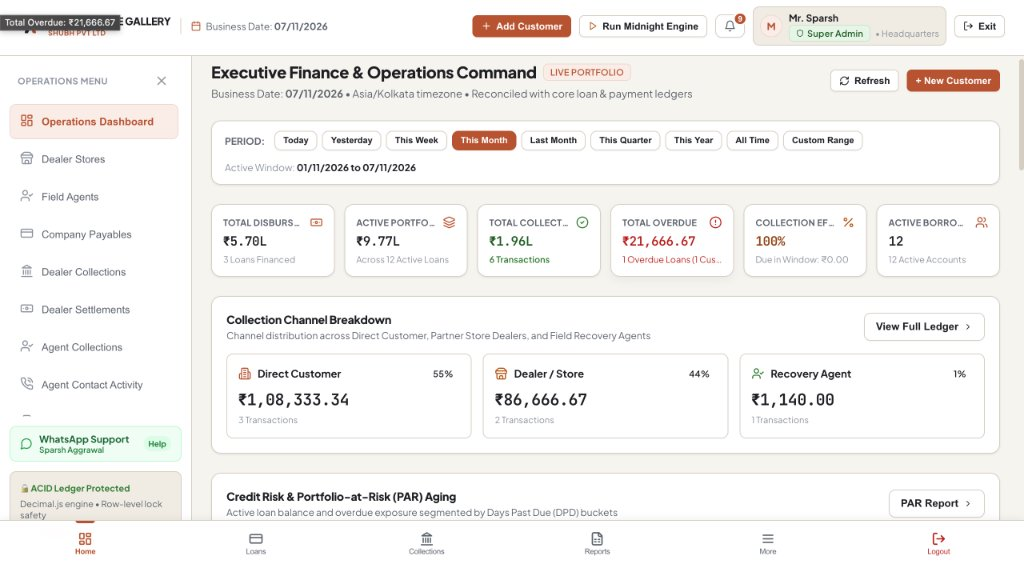
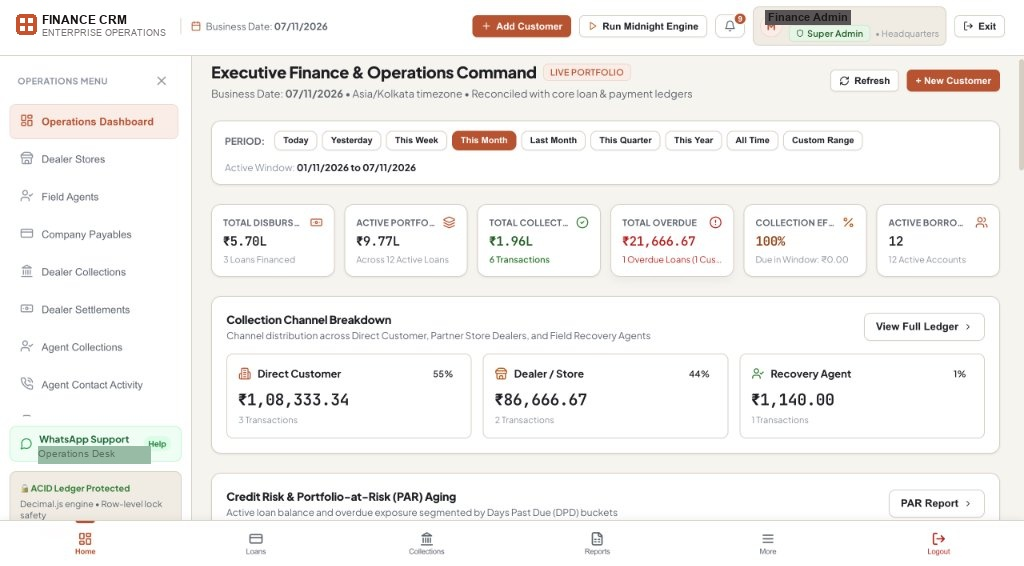
fix: update Finance CRM and Aurified project details, locations, and confidential framing

Changed region(s): [[0.0, 0.0, 0.1875, 0.0601], [0.0312, 0.7809, 0.1562, 0.841], [0.75, 0.0, 0.8438, 0.0601]]

diff --git a/src/data/projects.ts b/src/data/projects.ts
@@ -23,6 +23,7 @@ export interface Project {
   featuresDelivered: {
     title: string;
     description: string;
+    items?: string[];
   }[];
   techStack: {
     category: string;
@@ -128,11 +129,11 @@ export const MAIN_PROJECTS: Project[] = [
     slug: "aurified",
     name: "AURIFIED SHOPIFY STORE",
     client: "Parth",
-    category: "Shopify / E-commerce",
+    category: "E-commerce Development",
     industry: "D2C Lifestyle & Wellness Products",
     year: "2024",
-    location: "Location unverified",
-    locationVerified: false,
+    location: "Varanasi, Uttar Pradesh, India",
+    locationVerified: true,
     statusBadge: "In Progress",
     statusType: "in_progress",
     liveUrl: "https://aurified.in/",
@@ -141,7 +142,7 @@ export const MAIN_PROJECTS: Project[] = [
     tagline:
       "A structured and responsive Shopify storefront built around modern online shopping journeys.",
     description:
-      "A Shopify storefront built to deliver a structured and responsive online shopping experience across lifestyle, accessories, and wellness goods.",
+      "A Shopify-based e-commerce storefront developed for Aurified, a brand based in Varanasi, Uttar Pradesh. The project focuses on creating a polished online shopping experience with product discovery, responsive storefront design, product presentation, and a streamlined shopping journey.",
     features: [
       "Shopify storefront development & theme customization",
       "E-commerce product catalogue architecture",
@@ -156,9 +157,9 @@ export const MAIN_PROJECTS: Project[] = [
       "Responsive shopping experience across mobile viewports",
       "Brand-focused design with frictionless browsing",
     ],
-    tags: ["Shopify", "E-commerce", "Liquid", "Conversion Optimization", "Mobile Commerce"],
+    tags: ["Shopify", "E-commerce Development", "Liquid", "Conversion Optimization", "Mobile Commerce"],
     overview:
-      "Aurified is a direct-to-consumer lifestyle brand offering home accessories, fitness gear, and daily ergonomic essentials. DataCraft is developing and refining a clean Shopify storefront that structures diverse product categories into an intuitive shopping flow with frictionless mobile checkout.",
+      "A Shopify-based e-commerce storefront developed for Aurified, a brand based in Varanasi, Uttar Pradesh. The project focuses on creating a polished online shopping experience with product discovery, responsive storefront design, product presentation, and a streamlined shopping journey.",
     businessRequirements: [
       "Structure multi-category product lines (Accessories, Gym Wear, Home Essentials) for effortless discovery.",
       "Ensure fast page load speeds on mobile networks where the majority of D2C shoppers browse.",
@@ -212,47 +213,43 @@ export const MAIN_PROJECTS: Project[] = [
   {
     slug: "finance-crm",
     name: "FINANCE CRM PLATFORM",
-    client: "Sparsh Agrawal",
-    category: "Custom Software / Finance Management",
-    industry: "Enterprise FinTech & EMI Management",
+    client: "Confidential Finance Client",
+    category: "Custom Software Development",
+    industry: "Finance Management & Loan Operations CRM",
     year: "2024",
-    location: "Location unverified",
-    locationVerified: false,
+    location: "Auraiya, Uttar Pradesh, India",
+    locationVerified: true,
     statusBadge: "Prototyped / Paused",
     statusType: "paused",
     liveUrl: "https://crm-two-orcin-18.vercel.app/#dashboard",
     ctaLabel: "Explore Project",
     isMainPortfolio: true,
     tagline:
-      "A custom finance and loan management platform designed to automate EMI operations and field recovery.",
+      "A custom-built finance management and loan operations platform designed to automate EMI operations and field recovery.",
     description:
-      "A custom finance and loan management platform designed to manage customer onboarding, loan operations, payments, collections and recovery activities.",
+      "A custom-built finance management and loan operations platform developed for a finance company based in Auraiya, Uttar Pradesh. The platform centralizes customer onboarding, loan management, EMI calculations, payment allocation, field recovery operations, reporting, and administrative workflows into one integrated system.",
     features: [
-      "Executive finance & operations command dashboard",
       "Customer onboarding & digital KYC verification",
-      "Loan account management with automated interest calculation",
-      "EMI calculation & automated payment allocation",
-      "Dealer store management & commission settlements",
-      "Field agent management & collection tracking",
-      "Agent contact activity logging & recovery follow-ups",
-      "Financial reporting & Portfolio-at-Risk (PAR) aging analysis",
-      "Role-based access control (Super Admin, Manager, Agent)",
+      "Loan application, lifecycle & collateral management",
+      "Automated EMI calculation & waterfall payment allocation",
+      "Payment collection, allocation & reversal tracking",
+      "Field recovery queues, agent tracking & contact logs",
+      "Role-based access control & executive operational monitoring",
     ],
     highlights: [
       "Executive finance dashboard with real-time portfolio metrics",
-      "Customer onboarding & loan lifecycle management",
-      "Automated EMI calculation & payment allocation ledgers",
-      "Field agent management & mobile collection tracking",
-      "Financial reporting with Credit Risk & PAR aging buckets",
-      "Role-based access control safeguarding sensitive ledger data",
+      "ACID-compliant collection ledger with automated waterfall allocation",
+      "Field recovery queues, agent tracking & contact activity logs",
+      "Portfolio-at-Risk (PAR) aging and credit exposure reporting",
+      "Role-based access control safeguarding sensitive ledger operations",
     ],
-    tags: ["Custom Software", "Finance CRM", "TypeScript", "React", "Capacitor", "Role-Based Access"],
+    tags: ["Custom Software Development", "Finance Management CRM", "TypeScript", "React", "Capacitor", "Role-Based Access"],
     overview:
-      "Alpha Mobile Gallery / Shubh Pvt Ltd required a bespoke operational platform to handle retail device loans, customer KYC, monthly EMI collections, and field recovery assignments. DataCraft engineered an extensive single-page web and mobile-ready application. The platform is currently paused and is presented here as an engineering prototype demonstrating our capabilities in complex financial workflows, schema validation, and operational dashboards.",
+      "A custom-built finance management and loan operations platform developed for a finance company based in Auraiya, Uttar Pradesh. The platform centralizes customer onboarding, loan management, EMI calculations, payment allocation, field recovery operations, reporting, and administrative workflows into one integrated system. Built as an enterprise operational system, it replaces physical ledgers and disparate spreadsheets with a central, ACID-compliant collection ledger.",
     businessRequirements: [
       "Replace physical ledgers and disparate spreadsheets with a central, ACID-compliant collection ledger.",
-      "Calculate amortization schedules, overdue penalty fees, and payment allocations automatically.",
-      "Provide field recovery agents with mobile-ready verification tools and offline resilience.",
+      "Calculate amortization schedules, overdue penalty fees, and waterfall payment allocations automatically.",
+      "Provide field recovery agents with mobile-ready verification tools, contact logging, and recovery queues.",
       "Enforce granular role-based permissions between store dealers, field officers, and executive management.",
     ],
     challenges: [
@@ -271,20 +268,47 @@ export const MAIN_PROJECTS: Project[] = [
     ],
     featuresDelivered: [
       {
-        title: "Executive Finance Dashboard",
-        description: "High-density overview of total disbursed capital, active portfolio, collection efficiency %, and overdue tracking.",
+        title: "Customer & Loan Management",
+        description: "Customer onboarding and profile management, digital KYC verification, and complete loan lifecycle administration.",
+        items: [
+          "Customer onboarding and profile management.",
+          "KYC and document management.",
+          "Loan application and lifecycle management.",
+          "Product and collateral management.",
+        ],
       },
       {
-        title: "Customer & Loan Management Engine",
-        description: "Complete loan account lifecycle management with automated tenure calculations and digital KYC record keeping.",
+        title: "EMI & Financial Operations",
+        description: "Automated calculations, payment allocation algorithms, and transaction ledgers.",
+        items: [
+          "Automated EMI calculations.",
+          "Payment collection and allocation.",
+          "Waterfall-based payment allocation.",
+          "Payment reversals and transaction tracking.",
+          "Outstanding balance management.",
+        ],
       },
       {
-        title: "Collection & Field Agent Tracking",
-        description: "Real-time logging of customer visits, payment receipts, agent settlements, and overdue follow-up queues.",
+        title: "Field Recovery & Collections",
+        description: "Field recovery operations, mobile agent tracking, and dealer store workflows.",
+        items: [
+          "Agent and dealer management.",
+          "Recovery queues and collection tracking.",
+          "Agent contact activity logs.",
+          "Follow-up and payment commitment tracking.",
+          "Collection performance summaries.",
+        ],
       },
       {
-        title: "Portfolio-at-Risk (PAR) Aging",
-        description: "Automated segmentation of active loans by Days Past Due (DPD) buckets to monitor credit exposure.",
+        title: "Administration & Reporting",
+        description: "Granular role-based security, comprehensive audit trails, and portfolio intelligence.",
+        items: [
+          "Role-based access control.",
+          "Admin and manager dashboards.",
+          "Financial reports and exports.",
+          "Audit logs and activity tracking.",
+          "Notifications and operational monitoring.",
+        ],
       },
     ],
     techStack: [
@@ -379,7 +403,7 @@ export const EXPERIMENTAL_PROJECTS: Project[] = [
 export const PLANNING_PROJECTS = [
   {
     name: "Shopify Store",
-    client: "Shubh Aggrawal",
+    client: "Private Client",
     category: "Shopify / E-commerce",
     status: "Planning",
     location: "Location not verified",

diff --git a/src/app/work/[slug]/page.tsx b/src/app/work/[slug]/page.tsx
@@ -188,20 +188,22 @@ export default function CaseStudyPage({ params }: PageProps) {
         </div>
       </header>
 
-      {/* Honest Framing Notice for CRM */}
+      {/* Confidentiality & Enterprise Framing Notice for CRM */}
       {isCrm && (
         <div className="rounded-2xl bg-amber-50/90 border border-amber-300 p-6 flex flex-col sm:flex-row items-start gap-4">
           <ShieldAlert className="w-6 h-6 text-amber-700 flex-shrink-0 mt-0.5" />
           <div className="space-y-1">
             <h3 className="font-bold text-sm text-amber-950">
-              Platform Engineering Prototype (Status: Paused)
+              Confidential Enterprise System (Status: Paused Prototype)
             </h3>
             <p className="text-xs md:text-sm text-amber-900/90 leading-relaxed">
-              This custom software system was engineered and prototyped for
-              Sparsh Agrawal / Shubh Pvt Ltd to automate device lending, KYC
-              verifications, and recovery routes. The project is currently paused
-              and is documented here as an engineering prototype demonstrating our
-              technical software depth, decimal financial ledgers, and role-based
+              This custom software platform was engineered for a private finance company
+              based in Auraiya, Uttar Pradesh to centralize customer onboarding, loan management,
+              EMI calculations, payment allocation, field recovery operations, reporting, and
+              administrative workflows into one integrated system. In accordance with strict client
+              confidentiality, proprietary business data and identifying customer records are omitted.
+              Documented here as an enterprise operational showcase demonstrating our technical
+              capabilities in ACID-compliant ledgers, automated waterfall allocation, and role-based
               access controls.
             </p>
           </div>
@@ -370,7 +372,7 @@ export default function CaseStudyPage({ params }: PageProps) {
           {project.featuresDelivered.map((feature, i) => (
             <div
               key={i}
-              className="p-6 rounded-2xl bg-[#FFFDF6] border border-[rgba(35,31,32,0.1)] shadow-subtle space-y-2"
+              className="p-6 rounded-2xl bg-[#FFFDF6] border border-[rgba(35,31,32,0.1)] shadow-subtle space-y-3"
             >
               <div className="flex items-center gap-2">
                 <CheckCircle2 className="w-4 h-4 text-accent flex-shrink-0" />
@@ -381,6 +383,19 @@ export default function CaseStudyPage({ params }: PageProps) {
               <p className="text-sm text-text-secondary leading-relaxed pl-6">
                 {feature.description}
               </p>
+              {feature.items && feature.items.length > 0 && (
+                <ul className="pl-6 space-y-2 pt-2 border-t border-[rgba(35,31,32,0.06)]">
+                  {feature.items.map((item, idx) => (
+                    <li
+                      key={idx}
+                      className="text-xs text-foreground/85 flex items-start gap-2"
+                    >
+                      <span className="w-1.5 h-1.5 rounded-full bg-accent mt-1.5 flex-shrink-0" />
+                      <span>{item}</span>
+                    </li>
+                  ))}
+                </ul>
+              )}
             </div>
           ))}
         </div>

diff --git a/README.md b/README.md
@@ -33,19 +33,20 @@ Built strictly around the designated color palette:
    * **Screenshot Asset**: **Attachment 2** (`/images/asquare_homepage.jpg`) displayed in original aspect ratio inside a desktop mockup.
    * **CTA**: “Visit Live Website”
 2. **AURIFIED SHOPIFY STORE** (Client: Parth)
-   * **Category**: Shopify / E-commerce
-   * **Location**: `📍 Location to be verified` (unverified city is never fabricated)
+   * **Category**: E-commerce Development
+   * **Location**: `📍 Varanasi, Uttar Pradesh, India` (verified badge)
    * **Status**: In Progress
    * **CTA**: “Visit Website”
-3. **FINANCE CRM PLATFORM** (Client: Sparsh Agrawal)
-   * **Category**: Custom Software / Finance Management
-   * **Location**: `📍 Location to be verified`
+3. **FINANCE CRM PLATFORM** (Client: Confidential Finance Client)
+   * **Category**: Custom Software Development
+   * **Industry**: Finance Management & Loan Operations CRM
+   * **Location**: `📍 Auraiya, Uttar Pradesh, India` (verified badge)
    * **Status**: Paused (Engineering Prototype)
-   * **Screenshot Asset**: **Attachment 1** (`/images/crm_dashboard.jpg`) displayed inside a dark technical dashboard frame.
+   * **Screenshot Asset**: **Attachment 1** (`/images/crm_dashboard.jpg`) displayed inside a dark technical dashboard frame with proprietary client records anonymized.
    * **CTA**: “Explore Project”
 4. **PHONEVAULT PRO** (Client: Shivendra Rathore)
    * **Status**: Cancelled before completion. Clearly segregated in an **Archival & Exploratory Lab** section; excluded from the primary completed portfolio.
-5. **SHOPIFY STORE** (Client: Shubh Aggrawal)
+5. **SHOPIFY STORE** (Private Client)
    * **Status**: Planning. Kept strictly out of the public portfolio until deliverables exist.
 
 ---
